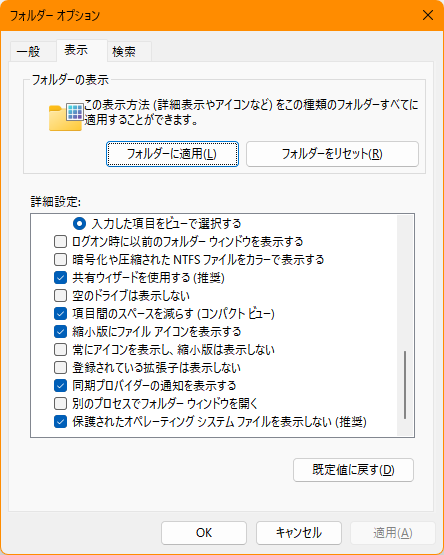
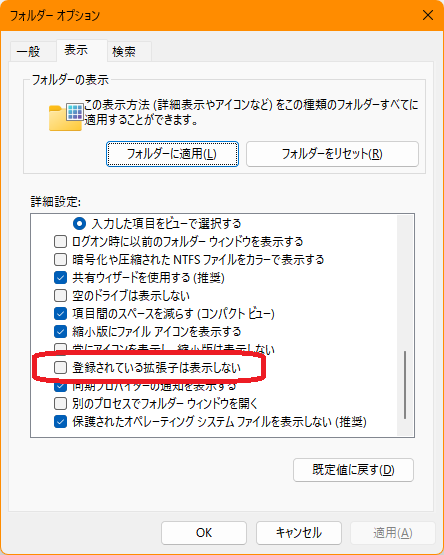
フォルダーオプションの写真を赤枠つきに差し替え、失敗例の画像を削除
- 第1章: 「登録されている拡張子は表示しない」を赤枠で示した写真に差し替え、チェックを入れないのが正解と明記。すぐ下の写真は本文から外した
- 使用していない失敗例の画像（ch00-git-config-ng.png）を削除
- 版を0.4.10に更新

Claude-Session: https://claude.ai/code/session_01QYBSeBsVyjWbJLnKnnMHu8

Changed region(s): [[0.0586, 0.6126, 0.6149, 0.7045]]

diff --git a/docs/chapter-01.html b/docs/chapter-01.html
@@ -7,7 +7,7 @@
 <link rel="stylesheet" href="style.css">
 </head>
 <body>
-<header class="site"><a class="title" href="index.html">Git と GitHub 入門</a><span class="ver"><!--ver--><a href="https://github.com/chitchi1216/git-github-textbook/blob/main/CHANGELOG.md">版 0.4.9（ドラフト）</a> ・ 2026-10-11 ・ 作成者 <a href="https://github.com/chitchi1216">chitchi1216</a><!--/ver--></span></header>
+<header class="site"><a class="title" href="index.html">Git と GitHub 入門</a><span class="ver"><!--ver--><a href="https://github.com/chitchi1216/git-github-textbook/blob/main/CHANGELOG.md">版 0.4.10（ドラフト）</a> ・ 2026-10-11 ・ 作成者 <a href="https://github.com/chitchi1216">chitchi1216</a><!--/ver--></span></header>
 <main class="wrap">
   <p class="meta">第1章 ／ 目安 40〜60分</p>
   <h1>パソコンの仕組み</h1>
@@ -217,12 +217,8 @@
     エクスプローラーの上の「<strong>…</strong>」（もっと見る）→「<strong>オプション</strong>」を開き、「フォルダー オプション」の<strong>「表示」タブ</strong>で、「<strong>登録されている拡張子は表示しない</strong>」の<strong>チェックを外して</strong>、「OK」を押します。拡張子が表示されるようになります。
   </div>
   <figure class="shot">
-    <img src="images/ch01-folder-options.png" alt="フォルダー オプションの「表示」タブ。「登録されている拡張子は表示しない」のチェックを外す" onerror="this.parentNode.classList.add('missing')">
-    <figcaption>「フォルダー オプション」の「表示」タブ。「登録されている拡張子は表示しない」の<strong>チェックを外す</strong>（この画面は、外れている＝拡張子が表示される状態）</figcaption>
-  </figure>
-  <figure class="shot">
-    <img src="images/ch01-explorer-extension.png" alt="エクスプローラーの表示メニューでファイル名拡張子にチェックを入れる画面" onerror="this.parentNode.classList.add('missing')">
-    <figcaption>エクスプローラーの上の「<strong>表示</strong>」から、「表示」→「ファイル名拡張子」にチェックを入れます。この写真は、<strong>拡張子（<code>.txt</code>）が表示されている状態</strong>です（<code>fruits.txt</code>、<code>memo.txt</code>）</figcaption>
+    <img src="images/ch01-folder-options.png" alt="フォルダー オプションの「表示」タブ。赤枠の「登録されている拡張子は表示しない」にチェックが入っていない" onerror="this.parentNode.classList.add('missing')">
+    <figcaption>「フォルダー オプション」の「表示」タブ。<strong>赤い枠の「登録されている拡張子は表示しない」に、チェックを入れない</strong>のが正解です（チェックが外れていると、拡張子が表示されます）</figcaption>
   </figure>
 
   <div class="challenge">

diff --git a/docs/index.html b/docs/index.html
@@ -7,7 +7,7 @@
 <link rel="stylesheet" href="style.css">
 </head>
 <body>
-<header class="site"><a class="title" href="index.html">Git と GitHub 入門</a><span class="ver"><!--ver--><a href="https://github.com/chitchi1216/git-github-textbook/blob/main/CHANGELOG.md">版 0.4.9（ドラフト）</a> ・ 2026-10-11 ・ 作成者 <a href="https://github.com/chitchi1216">chitchi1216</a><!--/ver--></span></header>
+<header class="site"><a class="title" href="index.html">Git と GitHub 入門</a><span class="ver"><!--ver--><a href="https://github.com/chitchi1216/git-github-textbook/blob/main/CHANGELOG.md">版 0.4.10（ドラフト）</a> ・ 2026-10-11 ・ 作成者 <a href="https://github.com/chitchi1216">chitchi1216</a><!--/ver--></span></header>
 <main class="wrap">
   <h1>Git と GitHub 入門</h1>
   <p>パソコンの基本から始めて、4人でチーム開発ができるようになるための教材です。環境は <strong>Windows 11 の PowerShell とメモ帳</strong>を使います。</p>

diff --git a/docs/chapter-04.html b/docs/chapter-04.html
@@ -7,7 +7,7 @@
 <link rel="stylesheet" href="style.css">
 </head>
 <body>
-<header class="site"><a class="title" href="index.html">Git と GitHub 入門</a><span class="ver"><!--ver--><a href="https://github.com/chitchi1216/git-github-textbook/blob/main/CHANGELOG.md">版 0.4.9（ドラフト）</a> ・ 2026-10-11 ・ 作成者 <a href="https://github.com/chitchi1216">chitchi1216</a><!--/ver--></span></header>
+<header class="site"><a class="title" href="index.html">Git と GitHub 入門</a><span class="ver"><!--ver--><a href="https://github.com/chitchi1216/git-github-textbook/blob/main/CHANGELOG.md">版 0.4.10（ドラフト）</a> ・ 2026-10-11 ・ 作成者 <a href="https://github.com/chitchi1216">chitchi1216</a><!--/ver--></span></header>
 <main class="wrap">
   <p class="meta">第4章 ／ 目安 70〜90分</p>
   <h1>GitHub と連携する：送る・受け取る</h1>

diff --git a/docs/chapter-05.html b/docs/chapter-05.html
@@ -7,7 +7,7 @@
 <link rel="stylesheet" href="style.css">
 </head>
 <body>
-<header class="site"><a class="title" href="index.html">Git と GitHub 入門</a><span class="ver"><!--ver--><a href="https://github.com/chitchi1216/git-github-textbook/blob/main/CHANGELOG.md">版 0.4.9（ドラフト）</a> ・ 2026-10-11 ・ 作成者 <a href="https://github.com/chitchi1216">chitchi1216</a><!--/ver--></span></header>
+<header class="site"><a class="title" href="index.html">Git と GitHub 入門</a><span class="ver"><!--ver--><a href="https://github.com/chitchi1216/git-github-textbook/blob/main/CHANGELOG.md">版 0.4.10（ドラフト）</a> ・ 2026-10-11 ・ 作成者 <a href="https://github.com/chitchi1216">chitchi1216</a><!--/ver--></span></header>
 <main class="wrap">
   <p class="meta">第5章 ／ 目安 70〜90分</p>
   <h1>ブランチ：作業を枝分かれさせる</h1>

diff --git a/docs/chapter-03.html b/docs/chapter-03.html
@@ -7,7 +7,7 @@
 <link rel="stylesheet" href="style.css">
 </head>
 <body>
-<header class="site"><a class="title" href="index.html">Git と GitHub 入門</a><span class="ver"><!--ver--><a href="https://github.com/chitchi1216/git-github-textbook/blob/main/CHANGELOG.md">版 0.4.9（ドラフト）</a> ・ 2026-10-11 ・ 作成者 <a href="https://github.com/chitchi1216">chitchi1216</a><!--/ver--></span></header>
+<header class="site"><a class="title" href="index.html">Git と GitHub 入門</a><span class="ver"><!--ver--><a href="https://github.com/chitchi1216/git-github-textbook/blob/main/CHANGELOG.md">版 0.4.10（ドラフト）</a> ・ 2026-10-11 ・ 作成者 <a href="https://github.com/chitchi1216">chitchi1216</a><!--/ver--></span></header>
 <main class="wrap">
   <p class="meta">第3章 ／ 目安 60〜80分</p>
   <h1>Git の基本：記録をつくる</h1>

diff --git a/docs/chapter-00.html b/docs/chapter-00.html
@@ -7,7 +7,7 @@
 <link rel="stylesheet" href="style.css">
 </head>
 <body>
-<header class="site"><a class="title" href="index.html">Git と GitHub 入門</a><span class="ver"><!--ver--><a href="https://github.com/chitchi1216/git-github-textbook/blob/main/CHANGELOG.md">版 0.4.9（ドラフト）</a> ・ 2026-10-11 ・ 作成者 <a href="https://github.com/chitchi1216">chitchi1216</a><!--/ver--></span></header>
+<header class="site"><a class="title" href="index.html">Git と GitHub 入門</a><span class="ver"><!--ver--><a href="https://github.com/chitchi1216/git-github-textbook/blob/main/CHANGELOG.md">版 0.4.10（ドラフト）</a> ・ 2026-10-11 ・ 作成者 <a href="https://github.com/chitchi1216">chitchi1216</a><!--/ver--></span></header>
 <main class="wrap">
   <p class="meta">第0章 ／ 目安 50〜70分</p>
   <h1>はじめに・準備</h1>

diff --git a/docs/chapter-02.html b/docs/chapter-02.html
@@ -7,7 +7,7 @@
 <link rel="stylesheet" href="style.css">
 </head>
 <body>
-<header class="site"><a class="title" href="index.html">Git と GitHub 入門</a><span class="ver"><!--ver--><a href="https://github.com/chitchi1216/git-github-textbook/blob/main/CHANGELOG.md">版 0.4.9（ドラフト）</a> ・ 2026-10-11 ・ 作成者 <a href="https://github.com/chitchi1216">chitchi1216</a><!--/ver--></span></header>
+<header class="site"><a class="title" href="index.html">Git と GitHub 入門</a><span class="ver"><!--ver--><a href="https://github.com/chitchi1216/git-github-textbook/blob/main/CHANGELOG.md">版 0.4.10（ドラフト）</a> ・ 2026-10-11 ・ 作成者 <a href="https://github.com/chitchi1216">chitchi1216</a><!--/ver--></span></header>
 <main class="wrap">
   <p class="meta">第2章 ／ 目安 50〜70分</p>
   <h1>ターミナル入門</h1>

diff --git a/docs/appendix-commands.html b/docs/appendix-commands.html
@@ -7,7 +7,7 @@
 <link rel="stylesheet" href="style.css">
 </head>
 <body>
-<header class="site"><a class="title" href="index.html">Git と GitHub 入門</a><span class="ver"><!--ver--><a href="https://github.com/chitchi1216/git-github-textbook/blob/main/CHANGELOG.md">版 0.4.9（ドラフト）</a> ・ 2026-10-11 ・ 作成者 <a href="https://github.com/chitchi1216">chitchi1216</a><!--/ver--></span></header>
+<header class="site"><a class="title" href="index.html">Git と GitHub 入門</a><span class="ver"><!--ver--><a href="https://github.com/chitchi1216/git-github-textbook/blob/main/CHANGELOG.md">版 0.4.10（ドラフト）</a> ・ 2026-10-11 ・ 作成者 <a href="https://github.com/chitchi1216">chitchi1216</a><!--/ver--></span></header>
 <main class="wrap">
   <p class="meta">付録A</p>
   <h1>よく使うコマンド一覧</h1>

diff --git a/docs/images/README.md b/docs/images/README.md
@@ -24,7 +24,6 @@
 | `ch00-powershell-open.png` | 第0章 | スタートメニューで「PowerShell」と入力した画面 |
 | `ch00-git-config.png` | 第0章 | PowerShell で `git config --global --list` を実行した画面（メールは隠す） |
 | `ch01-explorer-address-bar.png` | 第1章 | エクスプローラーのアドレスバーをクリックし、パスが文字で表示された画面 |
-| `ch01-explorer-extension.png` | 第1章 | 「表示」メニューで「ファイル名拡張子」にチェックを入れる画面 |
 | `ch02-explorer-vs-powershell.png` | 第2章 | 同じフォルダ（`practice`）を、エクスプローラーと PowerShell で並べた画面（アドレスバーとプロンプトが両方写るように） |
 | `ch02-input-mode.png` | 第0章・第2章 | 画面右下の入力モード表示（「A」と「あ」の両方）。半角英数の確認に使う |
 | `ch02-notepad.png` | 第2章 | PowerShell から `notepad memo.txt` を実行して、メモ帳が開いた画面（ターミナルとメモ帳が並ぶように） |
@@ -44,7 +43,7 @@
 | `ch00-github-profile.png` | GitHub のプロフィール画面（`chitchi1216`） |
 | `ch00-git-config.png` | `git config --global --list` の正しい状態（3行そろっている。マスク済み。第0章 0-10） |
 | `ch01-explorer-address-bar.png` | エクスプローラーのアドレスバー（パスが `¥` で表示される） |
-| `ch01-folder-options.png` | 「フォルダー オプション」の「表示」タブ（拡張子の設定） |
+| `ch01-folder-options.png` | 「フォルダー オプション」の「表示」タブ（赤枠：「登録されている拡張子は表示しない」にチェックを入れない） |
 | `ch02-input-mode.png` | 入力モード表示（「A」と「あ」） |
 | `ch04-browser-auth.png` | ブラウザの GitHub サインイン画面（第4章の認証） |
 | `ch00-powershell-open.png` | Windows の検索で「powershell」と入力した画面（第0章） |
@@ -59,3 +58,5 @@
 - 第4章: `ch04-new-repo.png`、`ch04-repo-after-push.png`、`ch04-edit-file.png`
 
 なお、`ch00-git-config-ng.png`（`user.email` の行がない失敗例）は、今は本文で使っていません。
+
+本文では使っていない画像：`ch01-explorer-extension.png`（拡張子が表示されたエクスプローラー）。

diff --git a/CHANGELOG.md b/CHANGELOG.md
@@ -3,6 +3,11 @@
 版の付け方：`大.中.小`。章を追加したら「中」、誤字や表現の修正は「小」を上げる。
 版を上げるときは、`python3 tools/set_version.py 新しい版` を実行して、全ページのヘッダーを更新する。
 
+## 0.4.10（ドラフト）— 2026-10-11
+
+- 第1章: 「フォルダー オプション」の写真を、赤枠つきに差し替え。「登録されている拡張子は表示しない」に、チェックを入れないのが正解、と明記。すぐ下の写真は、本文から外した
+- 失敗例の写真（`ch00-git-config-ng.png`）を削除
+
 ## 0.4.9（ドラフト）— 2026-10-11
 
 - 第0章・第2章: 「Windows PowerShell」を選ぶ案内を追加（検索結果に「PowerShell」（7）と並ぶことがあるため）
